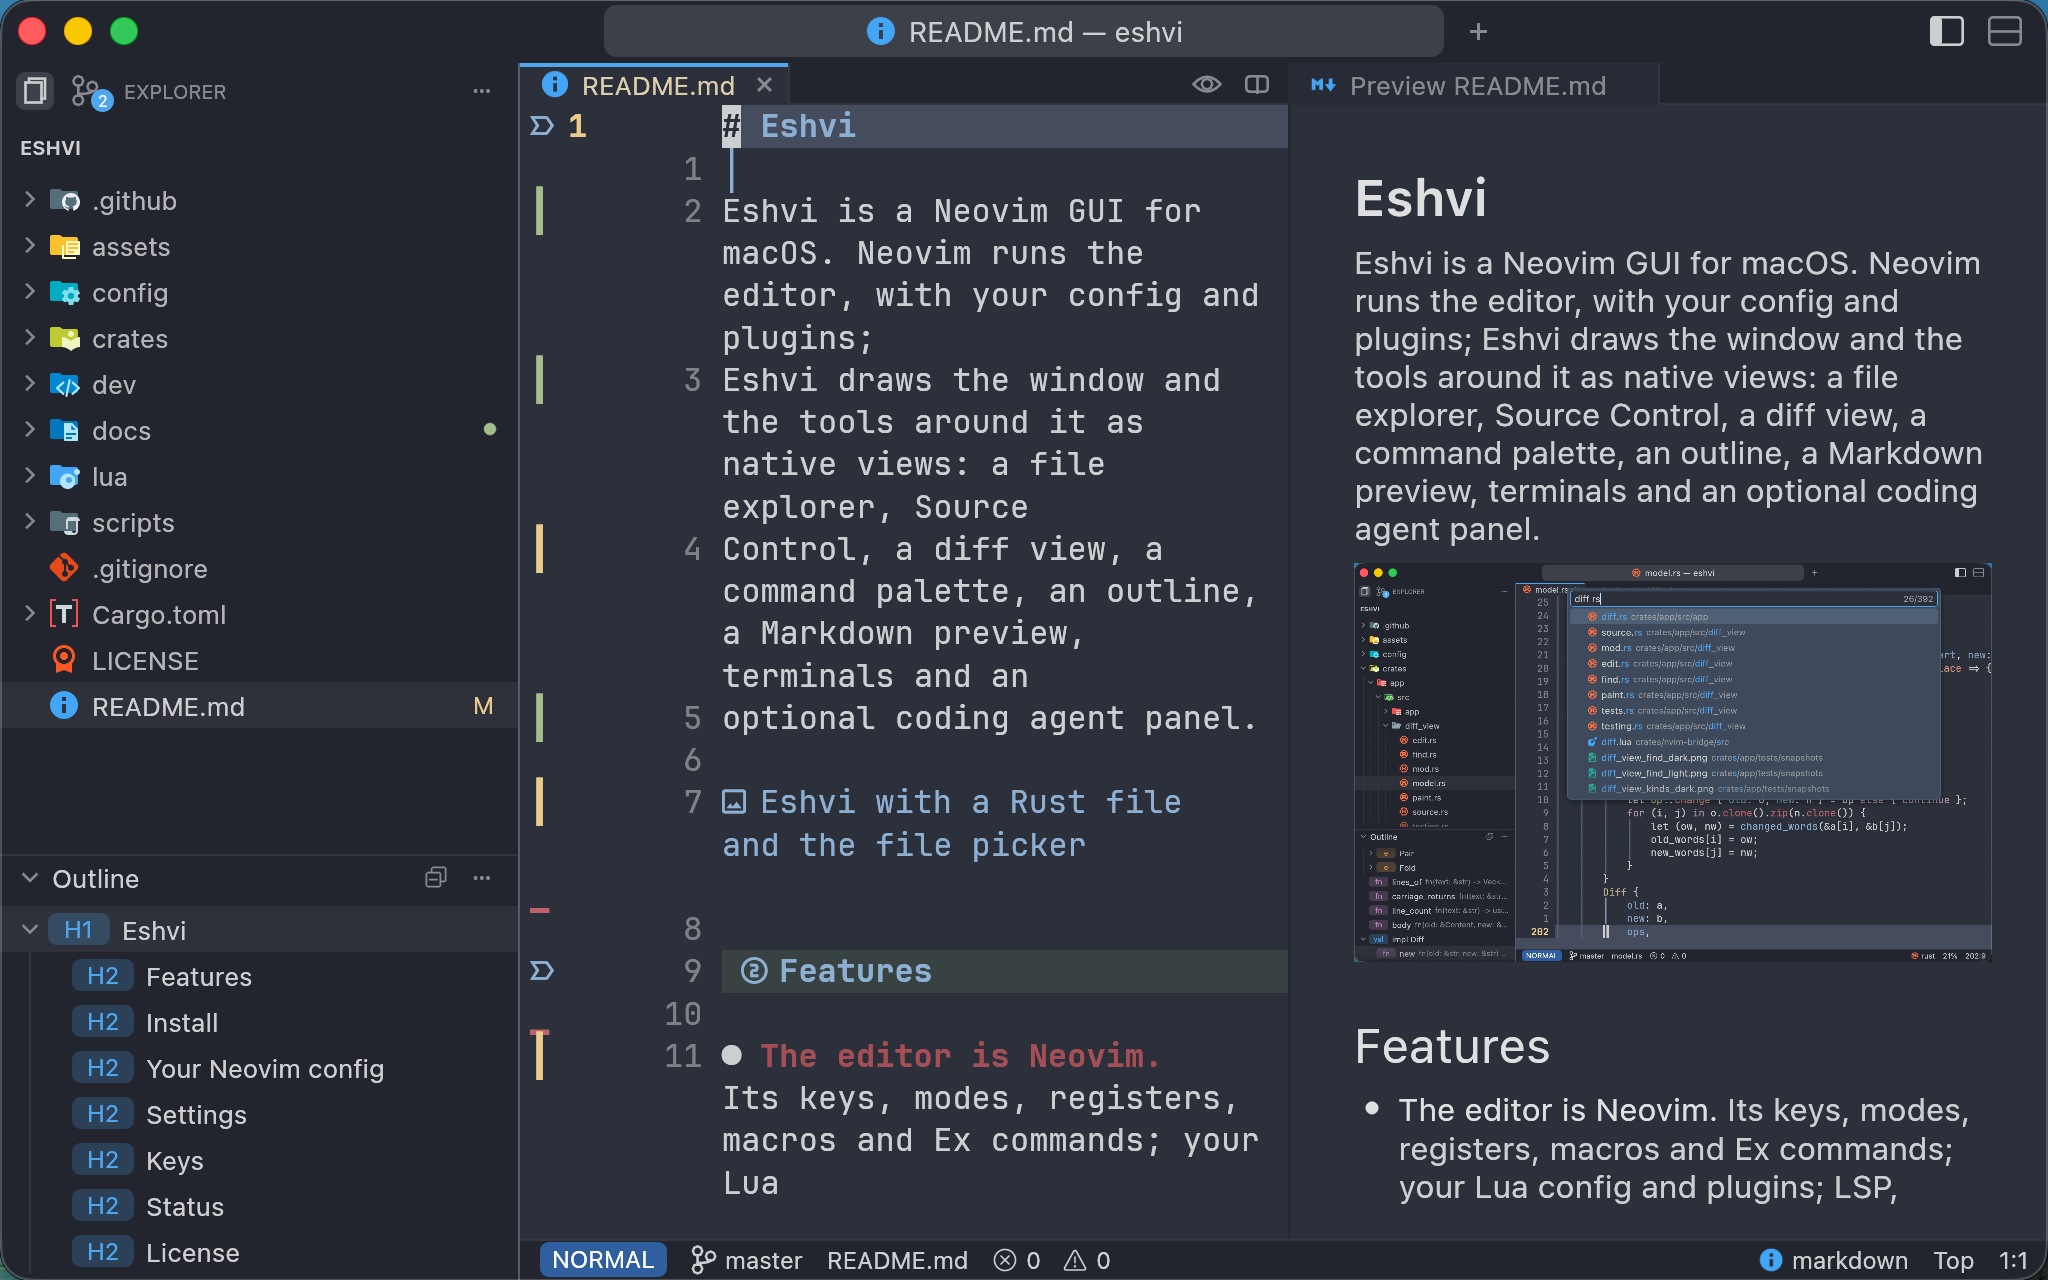
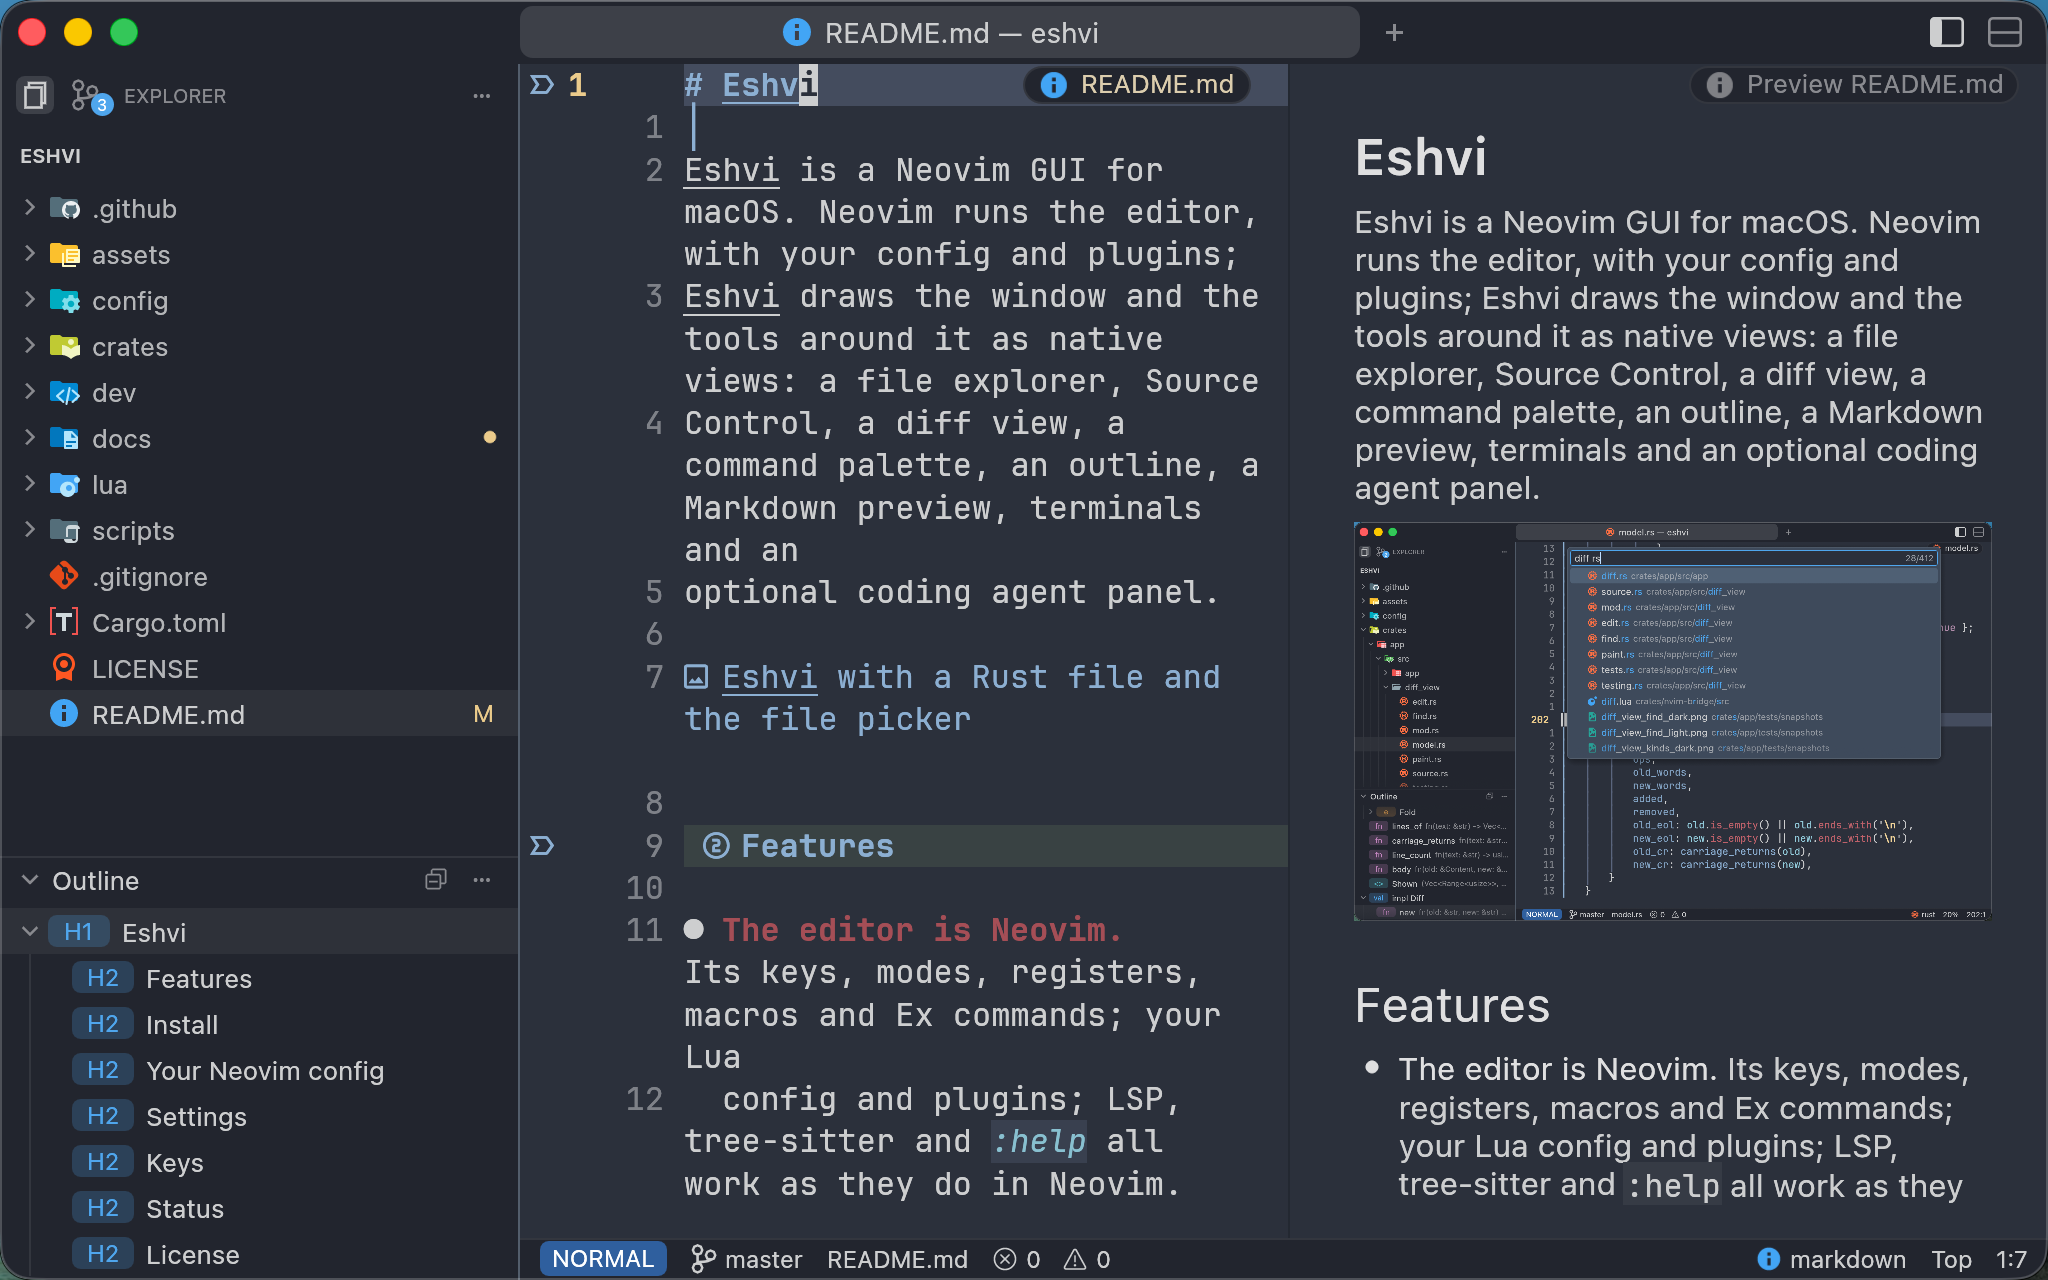
README: new screenshots
File pills, one strip height, title tabs from the editor's edge. The
completion shot is now the others' size, its docs under the menu.

diff --git a/README.md b/README.md
@@ -44,7 +44,7 @@ optional coding agent panel.
 
 ![Source Control, a Rust file, and two terminals in the bottom panel](docs/screenshots/terminal.png)
 
-![Completion in a Rust file, with rust-analyzer's documentation beside the menu](docs/screenshots/completion.png)
+![Completion in a Rust file, with rust-analyzer's documentation under the menu](docs/screenshots/completion.png)
 
 ## Install
 
